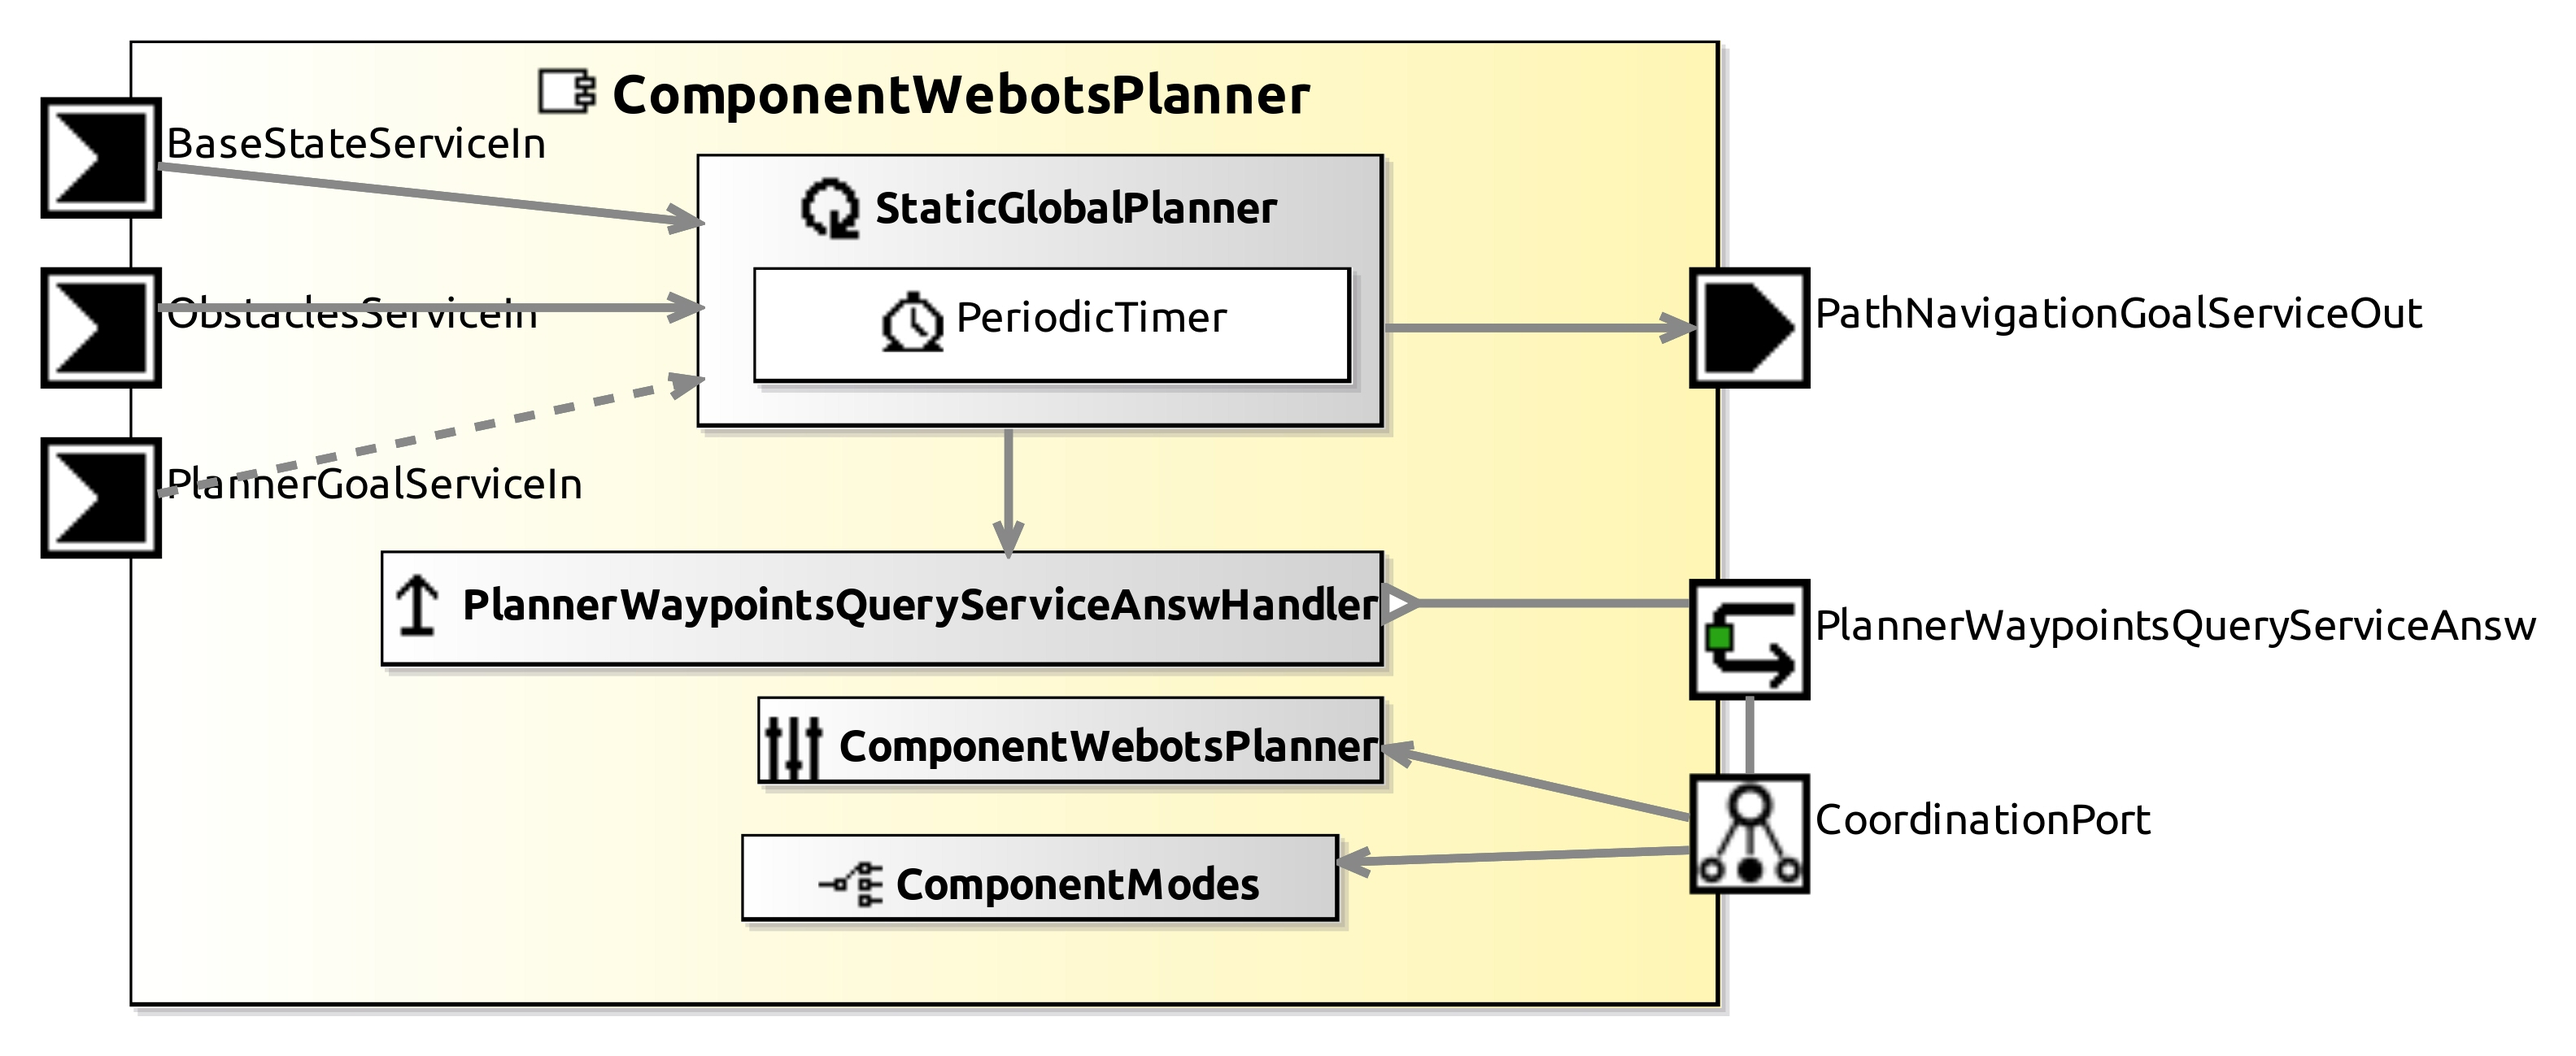
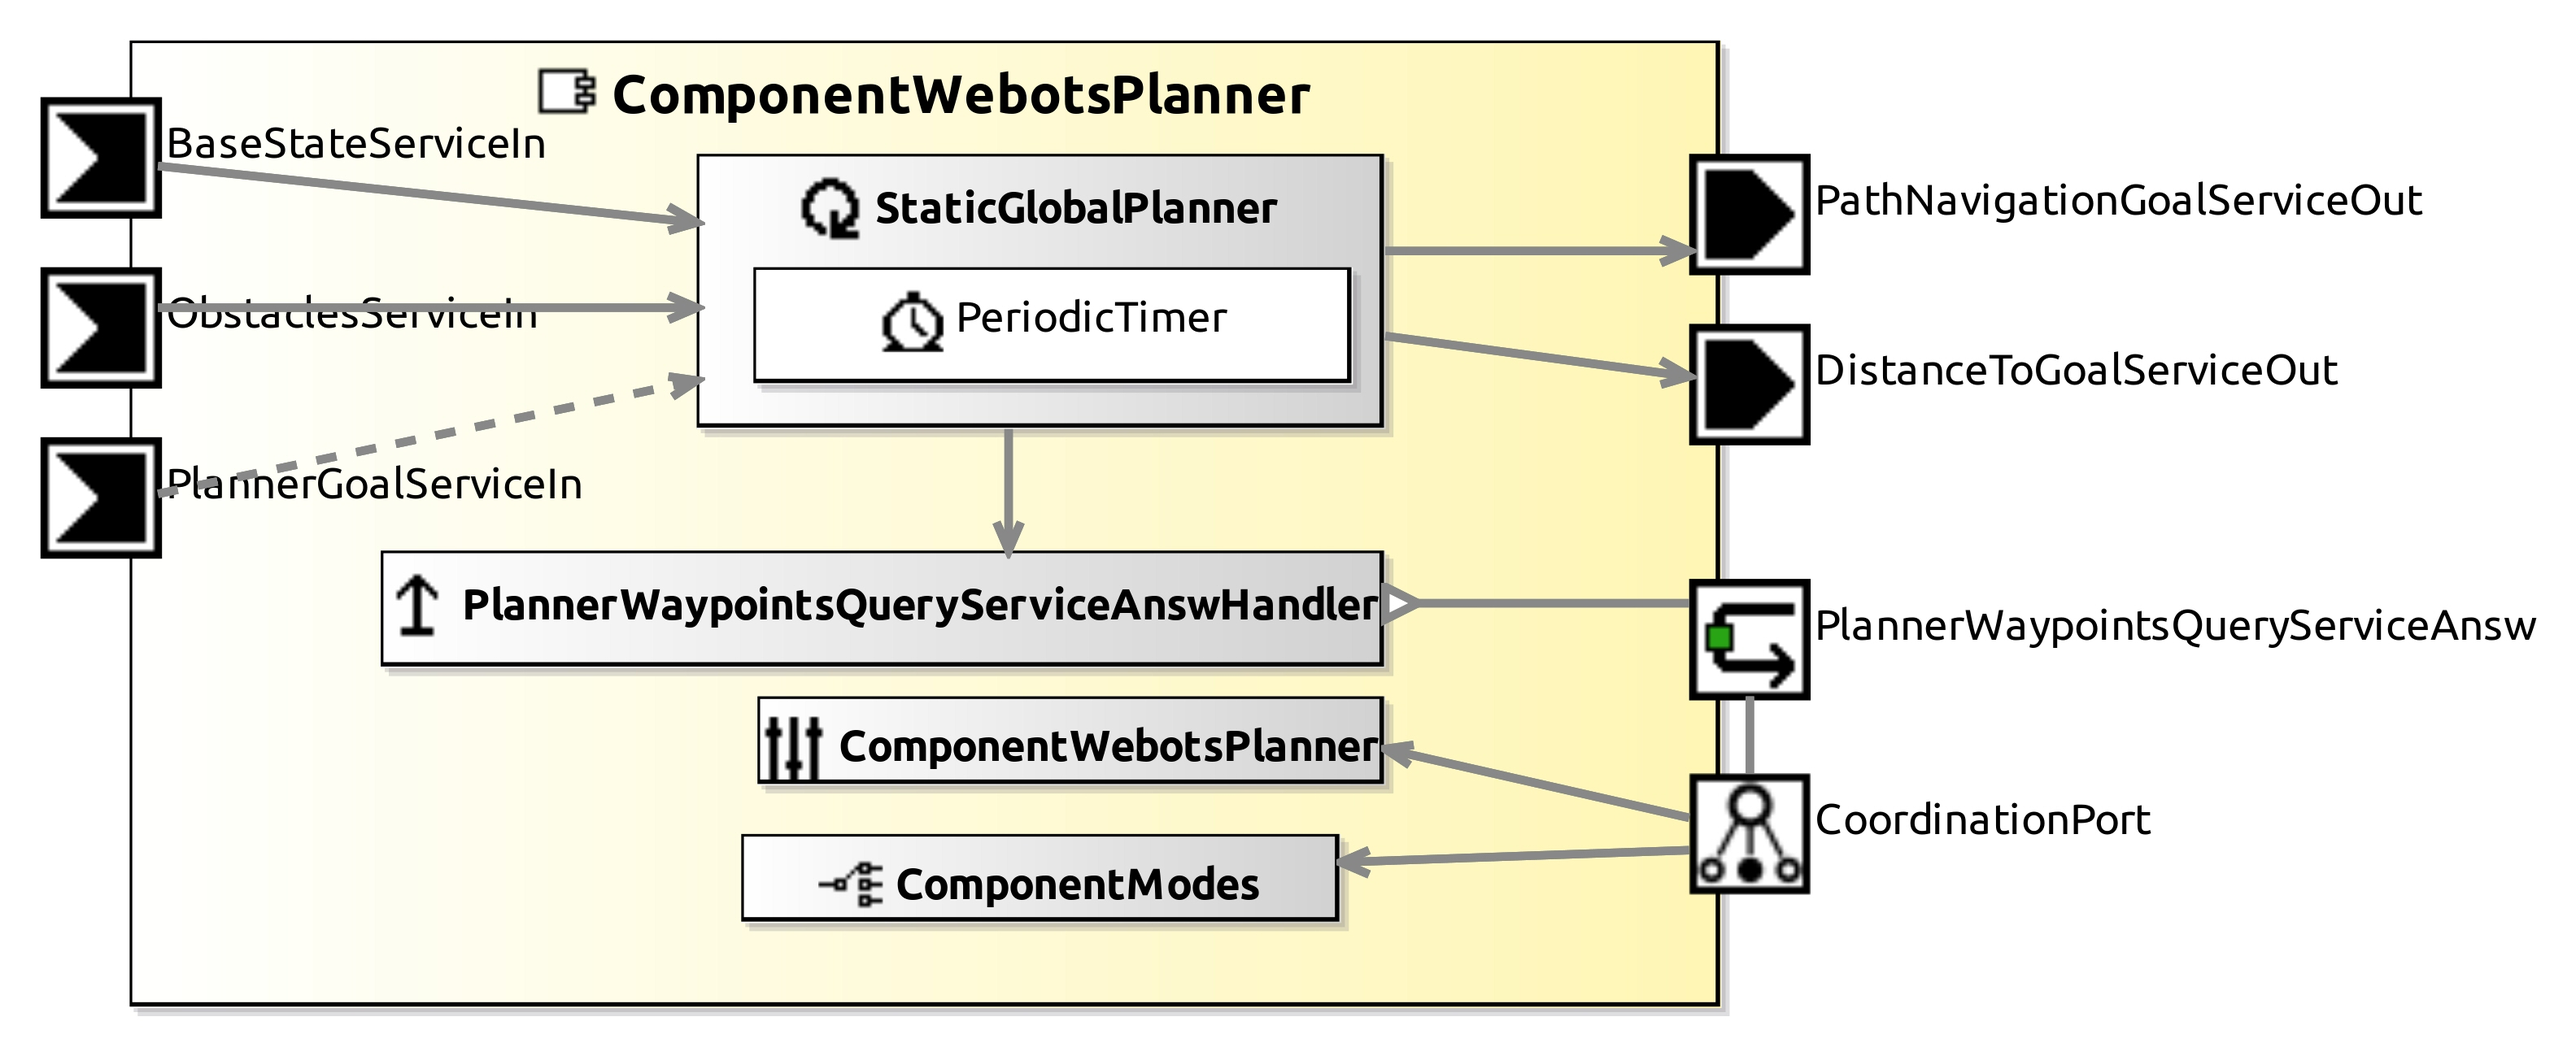
add distance to goal

Changed region(s): [[0.526, 0.1232, 0.9283, 0.4311]]

diff --git a/ComponentWebotsPlanner/smartsoft/src/StaticGlobalPlanner.cc b/ComponentWebotsPlanner/smartsoft/src/StaticGlobalPlanner.cc
@@ -21,7 +21,8 @@
 
 StaticGlobalPlanner::StaticGlobalPlanner(SmartACE::SmartComponent *comp) :
     StaticGlobalPlannerCore(comp),
-    replan(false)
+    replan(false),
+    planned(false)
 {
   auto box = COMP->getGlobalState().getRobot().getFootprint();
   std::vector<double> v_box;
@@ -119,6 +120,7 @@ CommRobotinoObjects::CommPathNavigationGoal StaticGlobalPlanner::PlannerGoalServ
       path_navigation_goal.setGoal(robot_pose.get_base_position().get_x(1),
           -robot_pose.get_base_position().get_y(1), 0, input.getXGoalPoint(),
           input.getYGoalPoint(), states.size());
+      planned = true;
       pathNavigationGoalServiceOutPut(path_navigation_goal);
     }
   }
@@ -154,6 +156,21 @@ int StaticGlobalPlanner::on_execute()
     return 0;
   }
   BaseStateServiceIn(base);
+
+  CommNavigationObjects::DistanceToGoal dtg;
+  if (planned) {
+    dtg.setL1(std::abs(goal.getXGoalPoint() - 
+      robot_pose.get_base_position().get_x(1)) + std::abs(goal.getYGoalPoint() -
+      robot_pose.get_base_position().get_y(1)));
+    dtg.setL2(std::sqrt(
+      std::pow(goal.getXGoalPoint() - robot_pose.get_base_position().get_x(1), 2) + 
+      std::pow(goal.getYGoalPoint() - robot_pose.get_base_position().get_y(1), 2))); 
+  }
+  else {
+    dtg.setL1(-1);
+    dtg.setL2(-1);
+  }
+  distanceToGoalServiceOutPut(dtg);
   COMP->mRobotMutex.release();
   return 0;
 }
